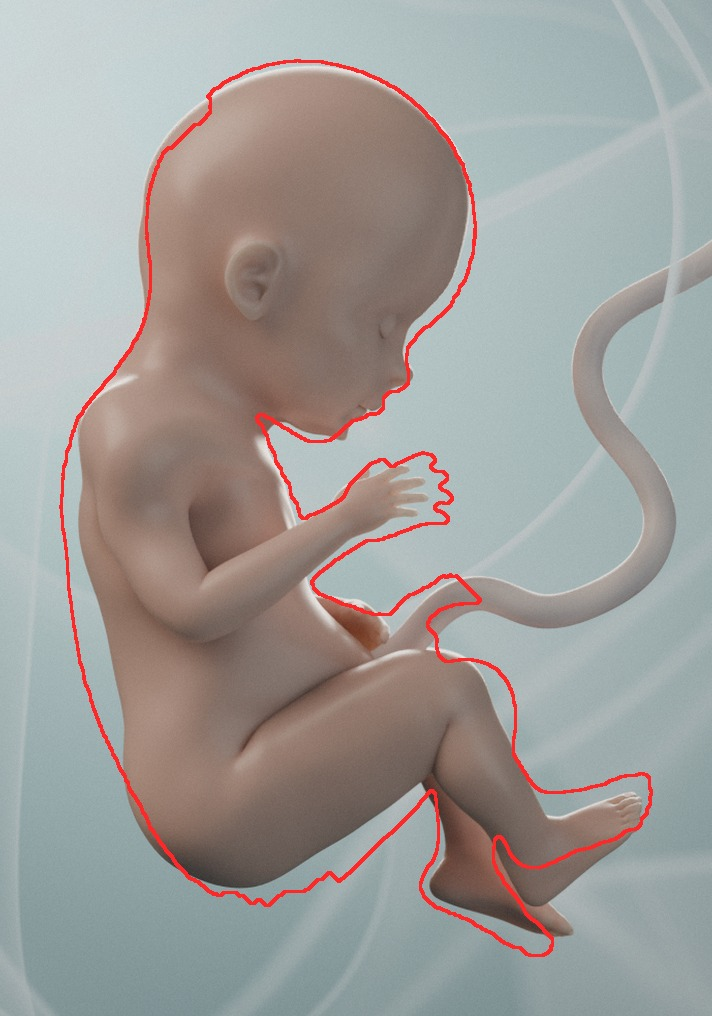
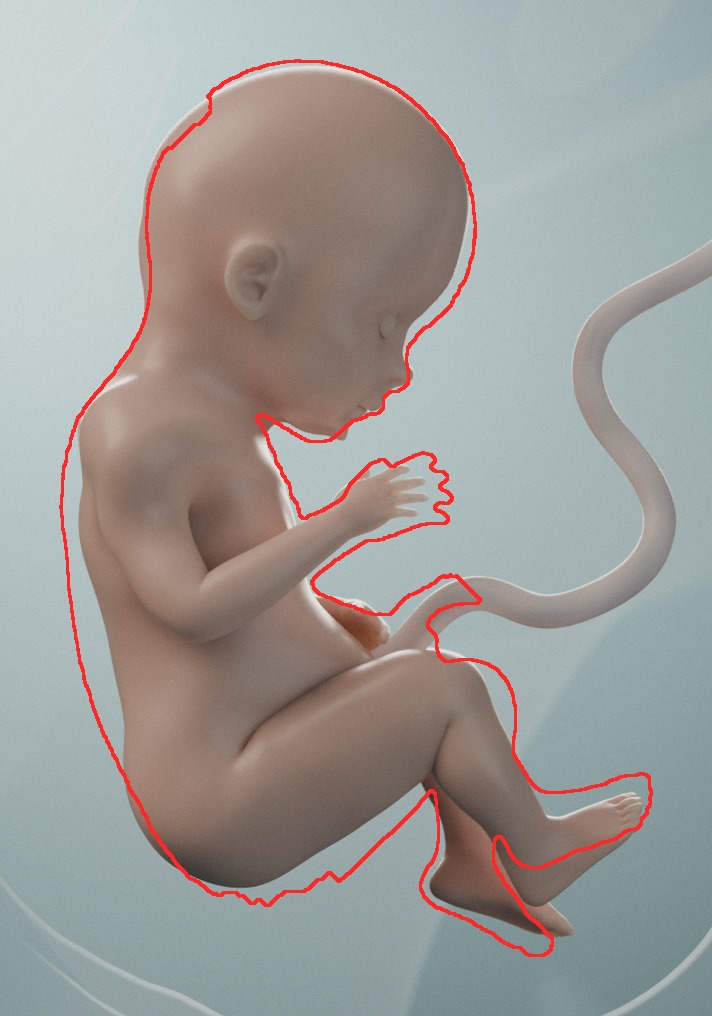
Fetal Growth Explorer: membranes follow the reference's own fold lines
fit_reference_veils.py traces the bright membrane lines of the reference
(difference-of-Gaussians ridges, fetus and cord masked, skeletonised,
fragments linked by gap and direction) into reference_veils.json.
lookdev back-projects each onto a plane just behind the fetus and builds a
thin bright hem with a milky film spreading away from the fetus, over soft
rimless silk sheets. The procedural rings remain as the fallback when no
trace exists.

Claude-Session: https://claude.ai/code/session_012GPESLoAzkgxi7MKnnsx3V

diff --git a/fetal-growth-explorer/blender/scripts/fge/lookdev.py b/fetal-growth-explorer/blender/scripts/fge/lookdev.py
@@ -8,6 +8,7 @@ from the brief and were tuned against the north-star reference.
 from __future__ import annotations
 
 import math
+from pathlib import Path
 
 import bpy
 import numpy as np
@@ -374,7 +375,7 @@ class _Out:
         self.outputs = {"Value": socket}
 
 
-def membrane_material(name="MAT_Membrane", opacity=0.75, hem=0.9, haze=0.05, strength=3.0, one_sided=False) -> bpy.types.Material:
+def membrane_material(name="MAT_Membrane", opacity=0.75, hem=0.9, haze=0.05, strength=3.0, one_sided=False, fade_ends=False, hem_band=(0.955, 0.99)) -> bpy.types.Material:
     """Thin silk veil: a faint milky film, white where seen edge-on (fresnel), with
     a thin bright hem along both long edges — the crisp lines the reference's
     veils draw across the frame."""
@@ -405,14 +406,28 @@ def membrane_material(name="MAT_Membrane", opacity=0.75, hem=0.9, haze=0.05, str
     nt.links.new(sep.outputs["Y"], absv.inputs[0])
     band = nt.nodes.new("ShaderNodeMapRange")
     band.interpolation_type = "SMOOTHSTEP"
-    band.inputs["From Min"].default_value = 0.955
-    band.inputs["From Max"].default_value = 0.99
+    band.inputs["From Min"].default_value = hem_band[0]
+    band.inputs["From Max"].default_value = hem_band[1]
     band.inputs["To Max"].default_value = hem
     nt.links.new(absv.outputs["Value"], band.inputs["Value"])
     fac = nt.nodes.new("ShaderNodeMath")
     fac.operation = "MAXIMUM"
     nt.links.new(scale.outputs["Result"], fac.inputs[0])
     nt.links.new(band.outputs["Result"], fac.inputs[1])
+    if fade_ends:  # traced veils: soften both ends (u = 0..1 along the line)
+        u1 = nt.nodes.new("ShaderNodeMath")
+        u1.operation = "PINGPONG"
+        u1.inputs[1].default_value = 0.5
+        nt.links.new(sep.outputs["X"], u1.inputs[0])
+        ends = nt.nodes.new("ShaderNodeMapRange")
+        ends.interpolation_type = "SMOOTHSTEP"
+        ends.inputs["From Max"].default_value = 0.2
+        nt.links.new(u1.outputs["Value"], ends.inputs["Value"])
+        faded = nt.nodes.new("ShaderNodeMath")
+        faded.operation = "MULTIPLY"
+        nt.links.new(fac.outputs["Value"], faded.inputs[0])
+        nt.links.new(ends.outputs["Result"], faded.inputs[1])
+        fac = faded
     transp = nt.nodes.new("ShaderNodeBsdfTransparent")
     # unlit: the key light is warm, and lit veils picked up a pink cast the reference doesn't have
     veil = nt.nodes.new("ShaderNodeEmission")
@@ -594,7 +609,7 @@ def veil(name, center, radii, tilt_deg, start, sweep, width, depth, twist, folds
     return ob
 
 
-MEMBRANE_SPECS = [
+MEMBRANE_RINGS = [  # procedural orbits (used when no traced veils exist)
     # start, sweep, width, depth(y), twist, folds, fold amp, extra clearance, tilt, centre offset (x, z)
     (0.4, 5.4, 0.220, 0.25, 0.35, 2.0, 0.018, 0.000, 8.0, (0.000, 0.000)),
     (2.5, 5.0, 0.300, 0.45, 0.45, 2.5, 0.024, 0.020, -12.0, (0.010, 0.015)),
@@ -605,6 +620,9 @@ MEMBRANE_SPECS = [
     (0.8, 5.2, 0.420, 1.00, 0.55, 3.0, 0.034, 0.070, 22.0, (0.020, -0.006)),
     (1.7, 3.4, 0.500, 1.35, 0.60, 3.5, 0.045, 0.110, -32.0, (-0.040, 0.060)),
     (4.7, 3.2, 0.480, 1.55, 0.55, 3.0, 0.042, 0.130, 26.0, (0.050, -0.070)),
+]
+
+MEMBRANE_SPECS = [
     # wide silk sheets well behind the fetus (they can never cross the body):
     # the soft folded fabric the reference frames the fetus with
     (2.9, 3.0, 0.900, 0.45, 0.20, 1.5, 0.030, 0.100, 6.0, (0.000, -0.030)),
@@ -612,6 +630,60 @@ MEMBRANE_SPECS = [
     (-0.9, 2.4, 0.950, 0.60, 0.20, 1.5, 0.034, 0.140, -10.0, (0.030, 0.000)),
     (4.3, 2.0, 1.200, 1.10, 0.25, 2.0, 0.046, 0.260, 14.0, (0.040, -0.050)),
 ]
+
+
+def make_traced_veils(material, path, depths=(0.01, 0.10), film=0.030, seed=3, name="ENV_Veil"):
+    """Veils along the membrane lines traced on the reference (fit_reference_veils.py).
+
+    Each traced polyline is back-projected onto a plane behind the fetus (depth
+    varies per line so the lens blur varies) and becomes the bright hem of a
+    thin film that spreads `film` metres outward, away from the fetus, like the
+    edge of a silk fold seen side-on."""
+    import json
+
+    spec = json.loads(Path(path).read_text())
+    W, H = spec["frame"]
+    f_px = (H / 2.0) / math.tan(HERO.fov_v / 2.0)
+    cx, cy, cz = HERO.location
+    rng = np.random.default_rng(seed)
+    centre = np.array([W * 0.49, H * 0.45])
+    col = collection("MEMBRANES")
+    obs = []
+    for k, line in enumerate(spec["polylines"]):
+        uv = np.asarray(line, float)
+        if len(uv) < 4:
+            continue
+        uv = np.stack([np.convolve(np.pad(uv[:, i], 2, mode="edge"), np.ones(5) / 5, "valid") for i in range(2)], -1)
+        d = rng.uniform(*depths)
+        depth = d - cy
+        P = np.stack([cx + (uv[:, 0] - W / 2) * depth / f_px, np.full(len(uv), d), cz - (uv[:, 1] - H / 2) * depth / f_px], -1)
+        t = np.gradient(uv, axis=0)
+        t /= np.maximum(np.linalg.norm(t, axis=1, keepdims=True), 1e-9)
+        n = np.stack([-t[:, 1], t[:, 0]], -1)  # image-plane normal (px)
+        if np.mean(np.einsum("ij,ij->i", n, uv - centre)) < 0:
+            n = -n  # point away from the fetus
+        n3 = np.stack([n[:, 0], np.zeros(len(n)), -n[:, 1]], -1)  # px (right, down) -> world (x, -z)
+        rows = 12
+        v = np.linspace(1.0, -1.0, rows)  # v = +1 at the traced hem, -1 at the film's far edge
+        s_along = np.linspace(0.0, 1.0, len(P))
+        width = film * (0.6 + 0.4 * np.sin(np.pi * s_along)) * rng.uniform(0.7, 1.3)
+        V3 = P[:, None, :] + n3[:, None, :] * (width[:, None] * (1 - v[None, :]) / 2)[..., None]
+        verts = V3.reshape(-1, 3)
+        i, j = np.meshgrid(np.arange(len(P) - 1), np.arange(rows - 1), indexing="ij")
+        a = (i * rows + j).ravel()
+        faces = np.stack([a, a + 1, a + rows + 1, a + rows], axis=1)
+        me = bpy.data.meshes.new(f"{name}_{k:02d}")
+        me.from_pydata(verts, [], faces)
+        me.shade_smooth()
+        uvl = me.uv_layers.new(name="veil")
+        UV = np.stack(np.broadcast_arrays(s_along[:, None], v[None, :]), -1).reshape(-1, 2)
+        uvl.data.foreach_set("uv", UV[np.array([lp.vertex_index for lp in me.loops])].ravel())
+        ob = bpy.data.objects.new(me.name, me)
+        me.materials.append(material)
+        camera_only(ob)
+        col.objects.link(ob)
+        obs.append(ob)
+    return obs
 
 
 def make_membranes(material, center=(0.008, 0.0, -0.003), clearance=0.070, specs=None, width_scale=1.0):

diff --git a/fetal-growth-explorer/blender/scripts/fit_reference_veils.py b/fetal-growth-explorer/blender/scripts/fit_reference_veils.py
@@ -1,0 +1,131 @@
+"""Trace the bright membrane lines of the north-star reference (run once).
+
+The veils in the reference read as thin bright lines (fold edges seen
+edge-on). They are the local luminance ridges: a difference-of-Gaussians
+response, thresholded, thinned to one-pixel skeletons and walked into
+polylines. The fetus and cord are masked out. Polylines are written in
+reference pixels to blender/lookdev/reference_veils.json; lookdev builds a
+thin camera-facing ribbon along each, back-projected onto a depth plane
+behind the fetus, so the membranes follow the painting's folds.
+
+    python fit_reference_veils.py
+"""
+
+import json
+import sys
+from pathlib import Path
+
+import numpy as np
+from PIL import Image
+from scipy import ndimage as nd
+from skimage.morphology import skeletonize
+
+sys.path.insert(0, str(Path(__file__).resolve().parent))
+from fge.camera import HERO, project_points  # noqa: E402
+
+CORD_PATH = None  # filled in main() (fge.lookdev imports bpy)
+
+ROOT = Path(__file__).resolve().parents[2]
+REF = ROOT / "reference" / "north-star.webp"
+MASK = ROOT / "blender" / "lookdev" / "reference_mask.png"
+OUT = ROOT / "blender" / "lookdev" / "reference_veils.json"
+MIN_LEN = 60  # px per traced piece before linking (reference is 1116 x 2000)
+
+
+def trace(skel: np.ndarray) -> list[list[tuple[int, int]]]:
+    """Walk a one-pixel skeleton into polylines, splitting at junctions."""
+    nb = nd.convolve(skel.astype(int), np.ones((3, 3), int), mode="constant") - 1
+    pts = skel & (nb <= 2)  # drop junction pixels so every component is a simple path
+    lab, n = nd.label(pts, structure=np.ones((3, 3)))
+    lines = []
+    for i in range(1, n + 1):
+        ys, xs = np.nonzero(lab == i)
+        if len(ys) < MIN_LEN:
+            continue
+        pix = set(zip(ys.tolist(), xs.tolist()))
+        deg = {p: sum((p[0] + dy, p[1] + dx) in pix for dy in (-1, 0, 1) for dx in (-1, 0, 1) if dy or dx) for p in pix}
+        start = min(pix, key=lambda p: (deg[p], p))
+        path, seen, cur = [start], {start}, start
+        while True:
+            nxt = [(cur[0] + dy, cur[1] + dx) for dy in (-1, 0, 1) for dx in (-1, 0, 1) if (dy or dx) and (cur[0] + dy, cur[1] + dx) in pix and (cur[0] + dy, cur[1] + dx) not in seen]
+            if not nxt:
+                break
+            cur = nxt[0]
+            seen.add(cur)
+            path.append(cur)
+        if len(path) >= MIN_LEN:
+            lines.append([(int(x), int(y)) for y, x in path[::6]])  # (u, v), every 6th pixel
+    return lines
+
+
+def link(lines, max_gap=70.0, max_turn=40.0, min_total=180.0):
+    """Greedily join polylines whose ends meet (gap < max_gap px) and continue in
+    the same direction (turn < max_turn deg): the thresholded ridges break
+    where a fold fades, but the painted line runs on."""
+    L = [np.asarray(l, float) for l in lines]
+
+    def end_dir(a, tail):
+        seg = a[-4:] if tail else a[:4][::-1]
+        d = seg[-1] - seg[0]
+        return d / max(np.linalg.norm(d), 1e-9)
+
+    merged = True
+    while merged:
+        merged = False
+        best = None
+        for i in range(len(L)):
+            for j in range(len(L)):
+                if i == j:
+                    continue
+                for ri in (False, True):
+                    for rj in (False, True):
+                        a = L[i][::-1] if ri else L[i]
+                        b = L[j][::-1] if rj else L[j]
+                        gap = np.linalg.norm(b[0] - a[-1])
+                        if gap > max_gap:
+                            continue
+                        da, db = end_dir(a, True), -end_dir(b, False)
+                        bridge = (b[0] - a[-1]) / max(gap, 1e-9)
+                        turn = max(np.degrees(np.arccos(np.clip(da @ db, -1, 1))), np.degrees(np.arccos(np.clip(da @ bridge, -1, 1))) if gap > 5 else 0)
+                        if turn < max_turn and (best is None or gap < best[0]):
+                            best = (gap, i, j, ri, rj)
+        if best:
+            _, i, j, ri, rj = best
+            a = L[i][::-1] if ri else L[i]
+            b = L[j][::-1] if rj else L[j]
+            L[i] = np.vstack([a, b])
+            del L[j]
+            merged = True
+    length = lambda a: float(np.sum(np.linalg.norm(np.diff(a, axis=0), axis=1)))  # noqa: E731
+    return [[(int(x), int(y)) for x, y in a] for a in L if length(a) >= min_total]
+
+
+def main():
+    global CORD_PATH
+    import ast
+
+    src = (Path(__file__).resolve().parent / "fge" / "lookdev.py").read_text()
+    CORD_PATH = ast.literal_eval(src.split("CORD_PATH = ")[1].split("\n]\n")[0] + "\n]")
+    im = np.asarray(Image.open(REF).convert("RGB")).astype(float)
+    L = im.mean(-1)
+    dog = nd.gaussian_filter(L, 2.0) - nd.gaussian_filter(L, 9.0)
+    body = nd.binary_dilation(np.asarray(Image.open(MASK).convert("L")) > 127, iterations=25)
+    # the cord: its drawn path (fge.lookdev.CORD_PATH follows the reference cord), widened
+    cord = np.zeros_like(body)
+    uv, _ = project_points(np.array(CORD_PATH), HERO, (im.shape[1], im.shape[0]))
+    for (u0, v0), (u1, v1) in zip(uv[:-1], uv[1:]):
+        for t in np.linspace(0, 1, 40):
+            x, y = int(u0 + (u1 - u0) * t), int(v0 + (v1 - v0) * t)
+            if 0 <= y < cord.shape[0] and 0 <= x < cord.shape[1]:
+                cord[y, x] = True
+    cord = nd.binary_dilation(cord, iterations=45)
+    ridges = (dog > 1.8) & ~body & ~cord
+    ridges = nd.binary_closing(ridges, structure=np.ones((3, 3)), iterations=2)  # bridge small gaps
+    ridges = nd.binary_opening(ridges, structure=np.ones((2, 2)))
+    lines = link(trace(skeletonize(ridges)))
+    OUT.write_text(json.dumps({"frame": [im.shape[1], im.shape[0]], "polylines": lines}))
+    print(f"[fge] traced {len(lines)} veil lines -> {OUT}")
+
+
+if __name__ == "__main__":
+    main()

diff --git a/fetal-growth-explorer/blender/scripts/lookdev.py b/fetal-growth-explorer/blender/scripts/lookdev.py
@@ -56,7 +56,14 @@ def main():
     if "fge_navel" in base:
         path = lookdev.attach_cord(path, base["fge_navel"], base["fge_navel_normal"])
     lookdev.make_cord(lookdev.cord_material(), path=path)
-    lookdev.make_membranes(lookdev.membrane_material())
+    traced = ROOT / "lookdev" / "reference_veils.json"
+    if traced.exists():  # the reference's own membrane lines (fit_reference_veils.py) + soft sheets
+        # soft milky silk well behind (no rims), then the reference's own fold lines on top
+        lookdev.make_membranes(lookdev.membrane_material(opacity=0.35, hem=0.0, haze=0.12))
+        veil = lookdev.membrane_material("MAT_Veil_Traced", one_sided=True, fade_ends=True, haze=0.14, hem=1.0, hem_band=(0.955, 0.985), strength=3.5)
+        lookdev.make_traced_veils(veil, traced, film=0.10)
+    else:
+        lookdev.make_membranes(lookdev.membrane_material(), specs=lookdev.MEMBRANE_RINGS + lookdev.MEMBRANE_SPECS)
     lookdev.make_particles(lookdev.particle_material())
     lookdev.make_lights()
     lookdev.make_camera(scene)

diff --git a/fetal-growth-explorer/README.md b/fetal-growth-explorer/README.md
@@ -31,6 +31,7 @@ uv pip install bpy==5.2.2 scikit-image pillow scipy
 cd blender/scripts
 python fetch_makehuman.py            # (once) CC0 MakeHuman base mesh, baby targets, rig → blender/assets/
 python fit_reference_mask.py         # (once) fetus silhouette traced from the reference
+python fit_reference_veils.py        # (once) membrane fold lines traced from the reference
 python build_base.py                 # fitted MakeHuman baby → FET_Body + FET_Body_Hero → fetal_master.blend (~6 min)
                                      # (--sdf: the earlier procedural implicit-surface body)
 python lookdev.py                    # materials, cord, membranes, lights, camera, render settings
